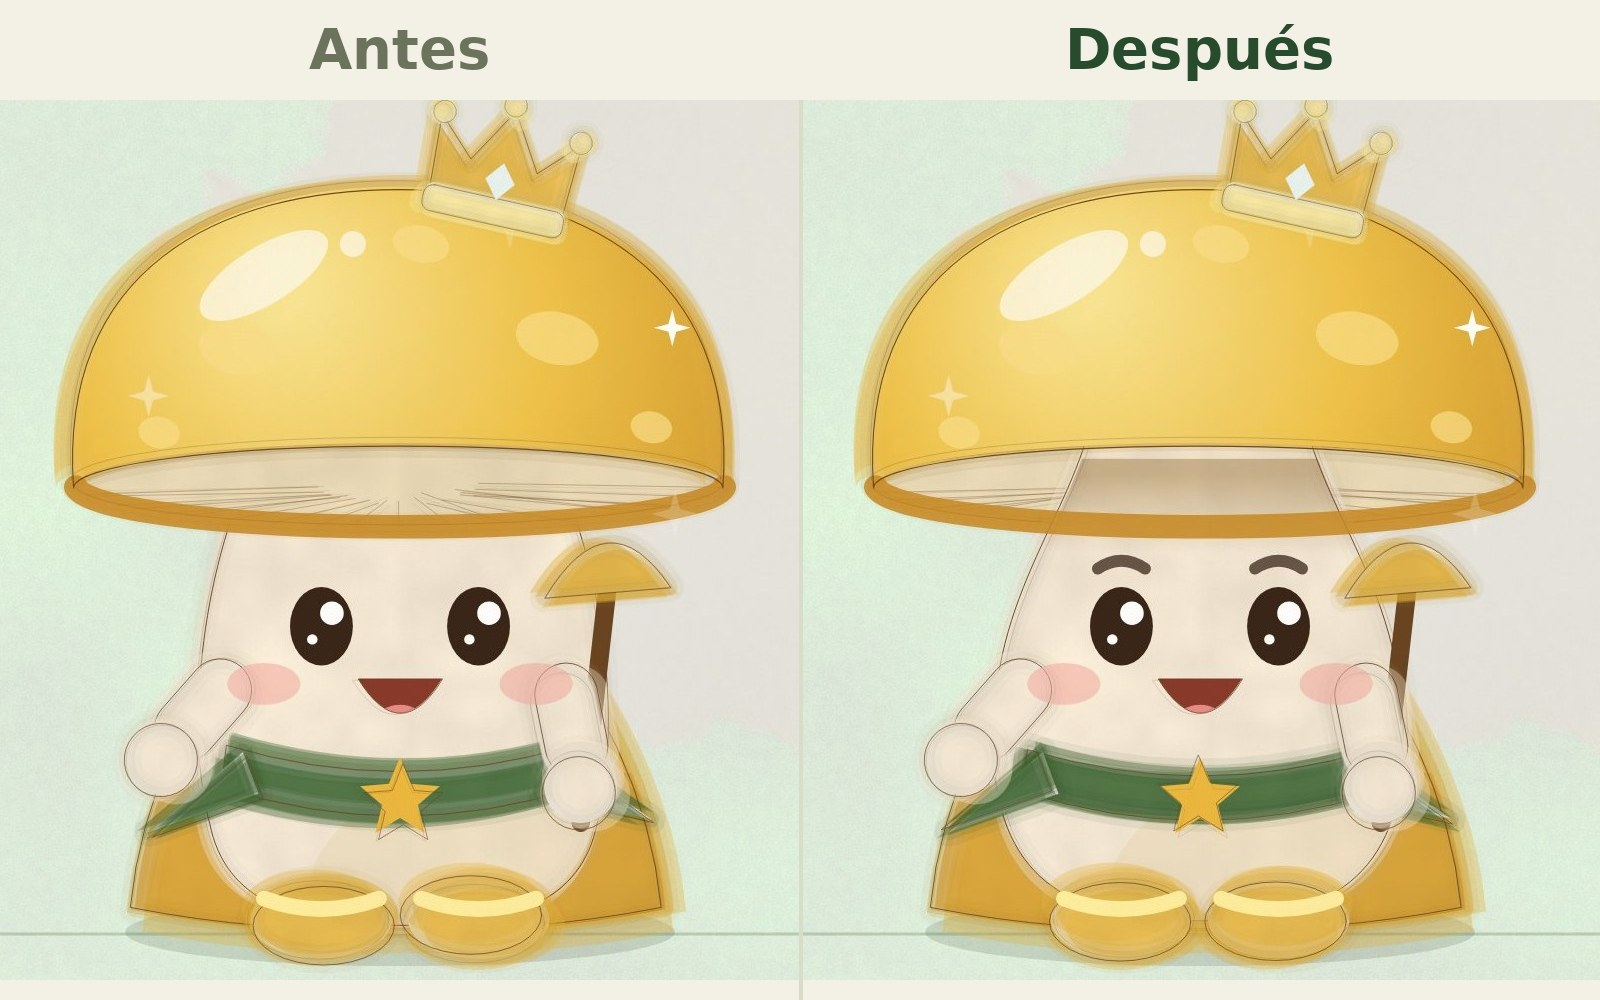
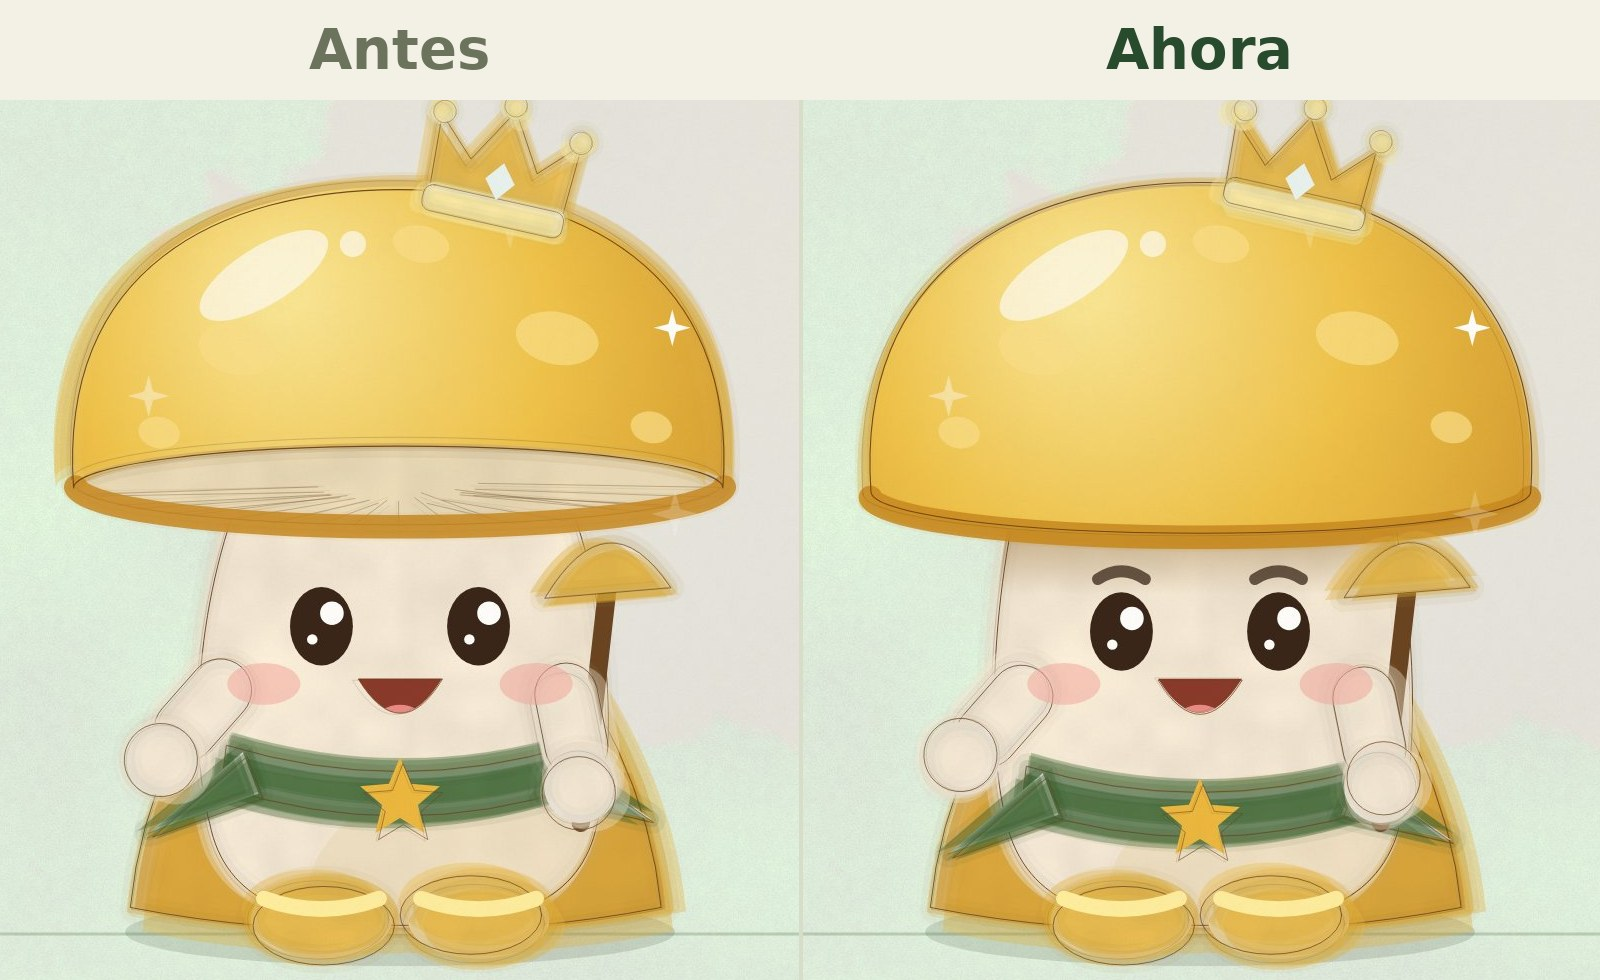
Mushie: sombrero apoyado justo encima de las cejas, sin ver por debajo
Claude-Session: https://claude.ai/code/session_01RHHyKoBWUfoTKEfLoQkjSP

diff --git a/reels/dia1-presentacion/styles/shroomy.js b/reels/dia1-presentacion/styles/shroomy.js
@@ -11,7 +11,7 @@ const boil = K => Math.floor(K.t * 8);
 export const SH = { gold: '#E9B43A', goldDeep: '#C98A20', goldLight: '#FFEFA0', spot: '#FBE08A', body: '#FBF1DD', bodyShade: '#EAD6B0', gill: '#F1DFB8',
   line: '#6B4521', blush: '#F4A9A0', eye: '#3A2618', mouth: '#8B3A2A', kraft: '#CDA678', straw: '#E6C681', boot: '#EDB93F' };
 export const OUTFITS = ['rey', 'natural', 'chef', 'jardinero', 'chullo', 'repartidor'];
-const CAP = { rx: 124, ry: 16, cy: -170, top: -284 }, NECK = -58;
+const CAP = { rx: 126, ry: 16, cy: -166, top: -284 }, NECK = -50;
 
 const rr = (x, y, w, h, r) => { const p = new Path2D(); p.roundRect(x, y, w, h, r); return p; };
 const ell = (x, y, rx, ry, a = 0) => { const p = new Path2D(); p.ellipse(x, y, rx, ry, a, 0, 7); return p; };
@@ -24,16 +24,13 @@ export function drawShroomy(ctx, F, S, P = {}, t = 0) {
   if (o === 'rey') { const fl = Math.sin(t * 2.4) * 5, c = new Path2D();
     c.moveTo(-46, -128); c.quadraticCurveTo(-92 - fl, -70, -98 - fl, -8); c.quadraticCurveTo(-50, 2, 0, 0); c.quadraticCurveTo(50, 2, 98 + fl, -8); c.quadraticCurveTo(92 + fl, -70, 46, -128); c.closePath();
     F(c, SH.gold); ctx.save(); ctx.clip(c); ctx.globalAlpha = 0.35; ctx.fillStyle = SH.goldDeep; ctx.fillRect(-120, -60, 240, 70); ctx.restore(); S(c, 0.9); }
-  // laminillas (se ven por debajo del sombrero)
-  const { rx, ry, cy, top } = CAP, gl = ell(sway, cy, rx, ry); F(gl, SH.gill);
-  ctx.save(); ctx.clip(gl); ctx.globalAlpha = 0.5; for (let i = 0; i <= 20; i++) { const a = Math.PI * (0.05 + 0.9 * i / 20), p = new Path2D(); p.moveTo(sway + Math.cos(a) * 40, cy + Math.sin(a) * ry * 0.3); p.lineTo(sway + Math.cos(a) * rx, cy + Math.sin(a) * ry); S(p, 0.35); } ctx.restore();
-  S(gl, 0.8);
+  const { rx, ry, cy, top } = CAP;
   // cuerpo gordito
-  // el tallo nace angosto del centro del sombrero y se ensancha hacia abajo
-  const body = new Path2D(); body.moveTo(-40, -198); body.bezierCurveTo(-14, -204, 14, -204, 40, -198); body.bezierCurveTo(48, -156, 82, -126, 78, -62); body.bezierCurveTo(74, -14, 42, -3, 0, -3);
-  body.bezierCurveTo(-42, -3, -74, -14, -78, -62); body.bezierCurveTo(-82, -126, -48, -156, -40, -198); body.closePath();
+  // cuerpo: la parte de arriba queda dentro del sombrero
+  const body = new Path2D(); body.moveTo(-60, -205); body.bezierCurveTo(-20, -212, 20, -212, 60, -205); body.bezierCurveTo(80, -150, 84, -80, 76, -46); body.bezierCurveTo(70, -12, 42, -3, 0, -3);
+  body.bezierCurveTo(-42, -3, -70, -12, -76, -46); body.bezierCurveTo(-84, -80, -80, -150, -60, -205); body.closePath();
   F(body, SH.body); ctx.save(); ctx.clip(body); ctx.globalAlpha = 0.45; ctx.fillStyle = SH.bodyShade; ctx.beginPath(); ctx.ellipse(34, -10, 70, 50, 0, 0, 7); ctx.fill();
-  { const sh = ctx.createLinearGradient(0, CAP.cy - 4, 0, CAP.cy + 26); sh.addColorStop(0, 'rgba(150,110,50,.45)'); sh.addColorStop(1, 'rgba(150,110,50,0)'); ctx.globalAlpha = 1; ctx.fillStyle = sh; ctx.fillRect(-90, CAP.cy - 10, 180, 40); }
+  { const sh = ctx.createLinearGradient(0, CAP.cy + CAP.ry - 2, 0, CAP.cy + CAP.ry + 22); sh.addColorStop(0, 'rgba(150,110,50,.45)'); sh.addColorStop(1, 'rgba(150,110,50,0)'); ctx.globalAlpha = 1; ctx.fillStyle = sh; ctx.fillRect(-90, CAP.cy + CAP.ry - 4, 180, 30); }
   ctx.restore(); S(body, 1);
   // pies o botitas
   for (const fx of [-30, 30]) {
@@ -43,7 +40,7 @@ export function drawShroomy(ctx, F, S, P = {}, t = 0) {
   clothes(ctx, F, S, o, t);
   // sombrero dorado (cúpula brillante con lunares claros)
   const cap = new Path2D(); cap.moveTo(sway - rx, cy); cap.bezierCurveTo(sway - rx - 6, cy - 84, sway - rx * 0.55, top, sway, top); cap.bezierCurveTo(sway + rx * 0.55, top, sway + rx + 6, cy - 84, sway + rx, cy);
-  cap.ellipse(sway, cy, rx, ry, 0, 0, Math.PI, true); cap.closePath();
+  cap.ellipse(sway, cy, rx, ry, 0, 0, Math.PI, false); cap.closePath();
   F(cap, SH.gold);
   ctx.save(); ctx.clip(cap);
   const gr = ctx.createRadialGradient(sway - 45, top + 40, 10, sway - 20, top + 70, 190); gr.addColorStop(0, SH.goldLight); gr.addColorStop(0.45, '#F2C64A'); gr.addColorStop(1, SH.goldDeep);
@@ -66,12 +63,12 @@ export function drawShroomy(ctx, F, S, P = {}, t = 0) {
   // carita en el cuerpo
   const ex = sway + lk[0] * 7, ey = lk[1] * 6, blink = P.blink !== false && ((t + (P.seed || 0)) % 3.3) < 0.13, es = (P.eyes || 'dot') === 'dot' && blink ? 'closed' : (P.eyes || 'dot');
   ctx.fillStyle = SH.eye; ctx.strokeStyle = SH.eye;
-  for (const x0 of [-30, 30]) { const x = x0 + ex, y = -116 + ey; ctx.beginPath();
+  for (const x0 of [-30, 30]) { const x = x0 + ex, y = -114 + ey; ctx.beginPath();
     if (es === 'happy') { ctx.lineWidth = 6; ctx.moveTo(x - 11, y + 4); ctx.quadraticCurveTo(x, y - 10, x + 11, y + 4); ctx.stroke(); continue; }
     if (es === 'closed') { ctx.lineWidth = 5.5; ctx.moveTo(x - 11, y); ctx.quadraticCurveTo(x, y + 8, x + 11, y); ctx.stroke(); continue; }
     const m = es === 'wide' ? 1.2 : 1; ctx.ellipse(x, y, 12 * m, 15 * m, 0, 0, 7); ctx.fill(); ctx.save(); ctx.fillStyle = '#fff'; ctx.beginPath(); ctx.arc(x + 4, y - 5, 4.5 * m, 0, 7); ctx.fill(); ctx.beginPath(); ctx.arc(x - 3.5, y + 5, 2 * m, 0, 7); ctx.fill(); ctx.restore(); }
-  { const br = (P.brow || 0) * 7 + (es === 'wide' ? 6 : 0); ctx.save(); ctx.globalAlpha = 0.75; ctx.strokeStyle = SH.eye; ctx.lineWidth = 4.5; ctx.lineCap = 'round';
-    for (const s of [-1, 1]) { const x = s * 30 + ex, y = -140 + ey - br; ctx.beginPath(); ctx.moveTo(x - 9, y + 2); ctx.quadraticCurveTo(x, y - 4 - br * 0.3, x + 9, y + 2); ctx.stroke(); } ctx.restore(); }
+  { const br = (P.brow || 0) * 4 + (es === 'wide' ? 4 : 0); ctx.save(); ctx.globalAlpha = 0.75; ctx.strokeStyle = SH.eye; ctx.lineWidth = 4.5; ctx.lineCap = 'round';
+    for (const s of [-1, 1]) { const x = s * 30 + ex, y = -136 + ey - br; ctx.beginPath(); ctx.moveTo(x - 9, y + 2); ctx.quadraticCurveTo(x, y - 4 - br * 0.3, x + 9, y + 2); ctx.stroke(); } ctx.restore(); }
   ctx.save(); ctx.globalAlpha = 0.55; ctx.fillStyle = SH.blush; for (const x of [-52, 52]) { ctx.beginPath(); ctx.ellipse(x + ex, -94 + ey, 14, 8, 0, 0, 7); ctx.fill(); } ctx.restore();
   { const my = -94 + ey, talking = typeof P.talk === 'number' && P.talk >= 0.08, mo = talking ? 'open' : (P.mouth || 'open'), k = talking ? 0.35 + 0.8 * P.talk : 1, mw = talking ? 12 + 6 * P.talk : 16, m = new Path2D();
     if (mo === 'o') { m.ellipse(ex, my + 4, 8, 10, 0, 0, 7); ctx.fillStyle = SH.mouth; ctx.fill(m); }
